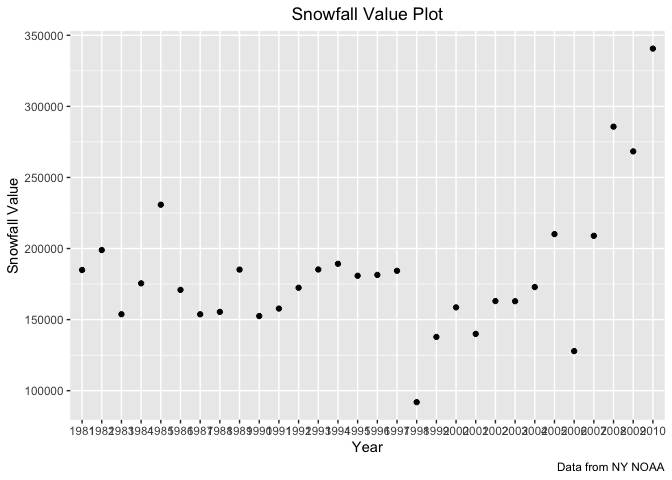
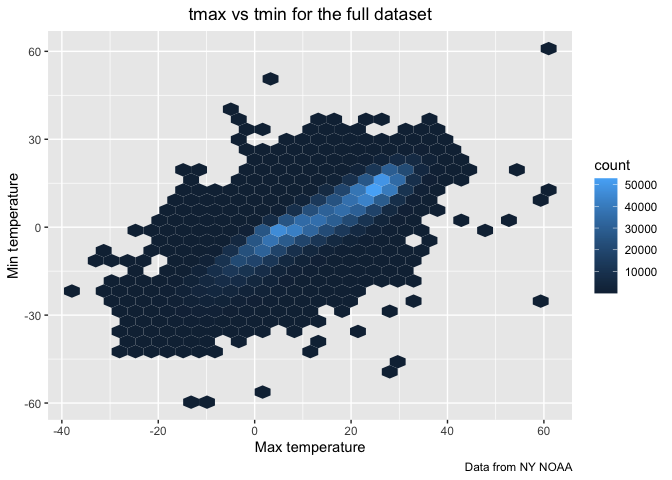
Use patchwork to combine two plots above together

diff --git a/p8105_hw3_zc2610.md b/p8105_hw3_zc2610.md
@@ -16,6 +16,11 @@ library(tidyverse)
     ## ✖ dplyr::filter() masks stats::filter()
     ## ✖ dplyr::lag()    masks stats::lag()
 
+``` r
+library(ggplot2)
+library(patchwork)
+```
+
 ## Problem 2
 
 Import data
@@ -257,7 +262,8 @@ ny_noaa %>%
     y = "Average Max Temperature",
     caption = "Data from NY NOAA"
   ) +
-   theme(plot.title = element_text(hjust = 0.5)) 
+   theme(plot.title = element_text(hjust = 0.5)) +
+  facet_grid(~month)
 ```
 
     ## `summarise()` has grouped output by 'id', 'year'. You can override using the
@@ -266,12 +272,31 @@ ny_noaa %>%
     ## Warning: Removed 5970 rows containing missing values (geom_point).
 
 ![](p8105_hw3_zc2610_files/figure-gfm/unnamed-chunk-13-1.png)<!-- -->
+(i) Make a plot show tmax vs tmin
+
+``` r
+tmax_tmin_df = ny_noaa %>% 
+ggplot(aes(x = tmax, y = tmin)) + 
+  geom_hex() +
+  labs(
+    x = "Max temperature",
+    y = "Min temperature", 
+    title = "tmax vs tmin for the full dataset",
+    caption = "Data from NY NOAA"
+    ) +
+   theme(plot.title = element_text(hjust = 0.5)) 
+tmax_tmin_df
+```
+
+    ## Warning: Removed 1136276 rows containing non-finite values (stat_binhex).
+
+![](p8105_hw3_zc2610_files/figure-gfm/unnamed-chunk-14-1.png)<!-- -->
 
 2)  Make a plot show the distribution of snowfall values greater than 0
     and less than 100 separated by year
 
 ``` r
-ny_noaa %>% 
+snowfall_df = ny_noaa %>% 
   group_by(year) %>% 
   filter(snow > 0 & snow < 100) %>% 
     summarize(
@@ -285,7 +310,18 @@ ny_noaa %>%
     y = "Snowfall Value",
     caption = "Data from NY NOAA"
   ) +
-   theme(plot.title = element_text(hjust = 0.5)) 
+   theme(plot.title = element_text(hjust = 0.5))
+snowfall_df
 ```
 
-![](p8105_hw3_zc2610_files/figure-gfm/unnamed-chunk-14-1.png)<!-- -->
+![](p8105_hw3_zc2610_files/figure-gfm/unnamed-chunk-15-1.png)<!-- -->
+
+Use patchwork to combine two plots above together
+
+``` r
+tmax_tmin_df+snowfall_df
+```
+
+    ## Warning: Removed 1136276 rows containing non-finite values (stat_binhex).
+
+![](p8105_hw3_zc2610_files/figure-gfm/unnamed-chunk-16-1.png)<!-- -->
